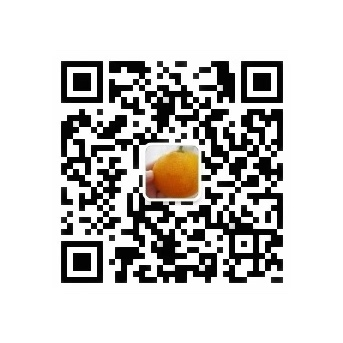
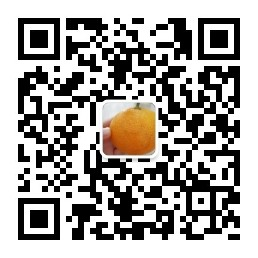
fix tag

diff --git a/about.md b/about.md
@@ -11,7 +11,7 @@ permalink: /about/
                     <div class="col-lg-12">
                         <div class="row">
                             <div class="col-sm-offset-3 col-sm-6 col-md-offset-3 col-md-6 col-lg-offset-3 col-lg-6">
-                                <img class="img-circle img-responsive"
+                                <img class="img-responsive"
                                      src="{{site.data.personal.gravatar}}">
                             </div>
                         </div>
